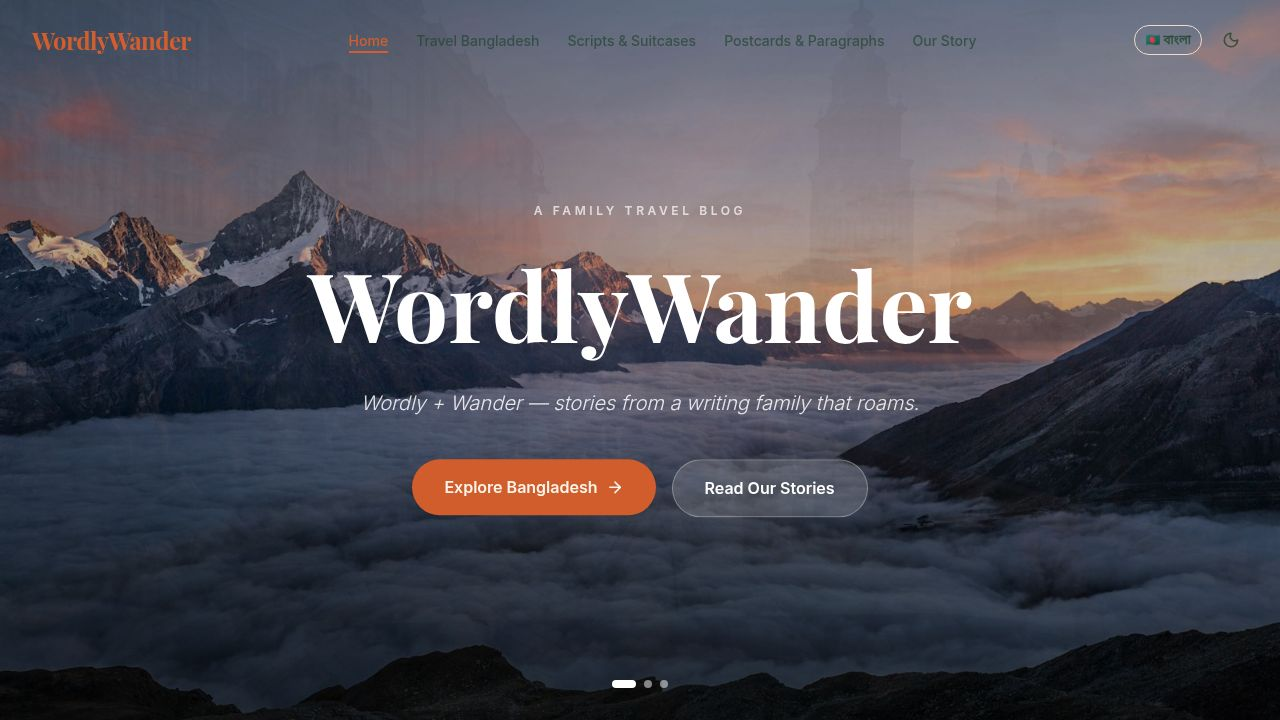
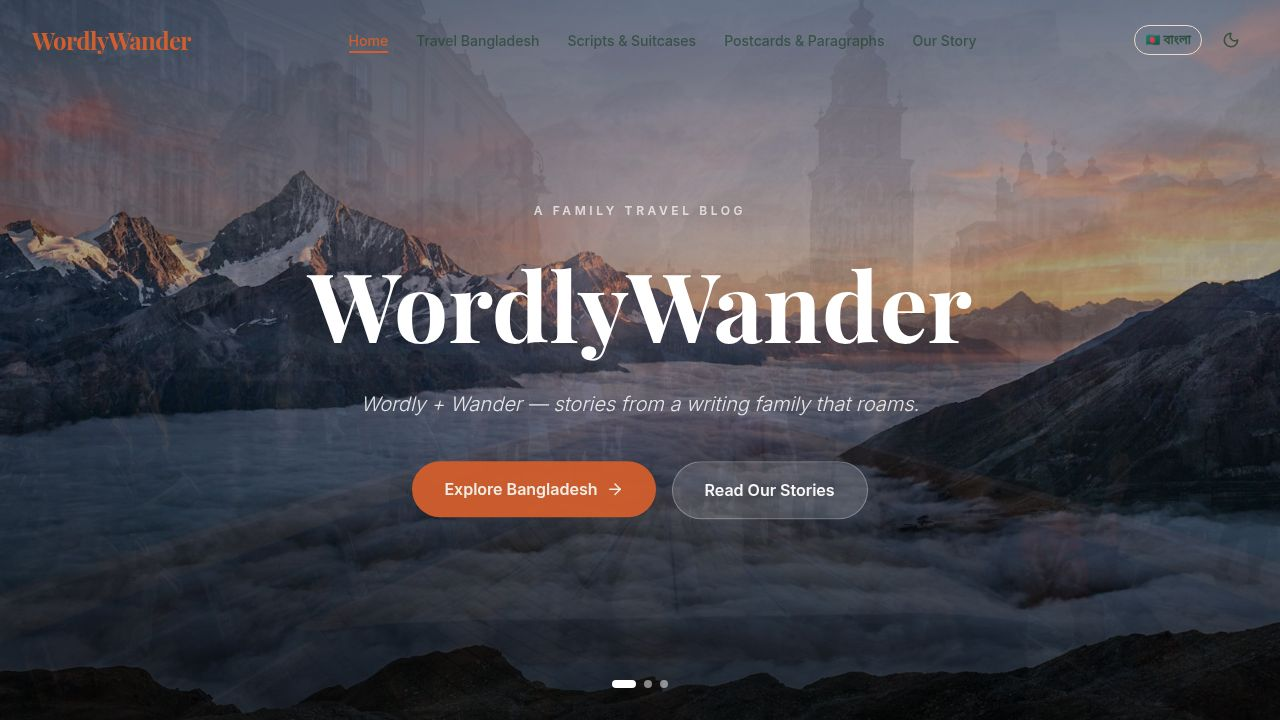
Migrate WordlyWander travel blog from Vercel to Replit pnpm workspace
Original task: Port the imported Vercel project (WordlyWander family travel blog)
into the Replit pnpm_workspace stack as a react-vite artifact.

## What was done

### Frontend (artifacts/worldly-wander/)
- Created react-vite artifact with slug "worldly-wander" at previewPath "/"
- Copied all source files from .migration-backup/artifacts/worldly-wander/src/
  including: pages (Home, Bangladesh, Destination, Blog, BlogPost, Photos, About,
  admin/*), components (Navbar, Footer, BackToTop, StarRating, all shadcn UI),
  contexts (ThemeContext, LanguageContext, AdminAuthContext), hooks, lib/api.ts,
  data/ (destinations.json, posts.json, photos.json)
- Updated index.html with Playfair Display + Inter Google Fonts
- Updated package.json with all required dependencies
- Fixed vite.config.ts to use sensible defaults for PORT/BASE_PATH instead of
  throwing — the workflow doesn't inject these env vars on dev startup
- Applied proper terracotta/forest green/cream theme colors in index.css

### Backend (artifacts/api-server/)
- Added cookie-parser middleware to app.ts
- Created lib/jwt.ts for JWT admin token signing/verifying (SESSION_SECRET)
- Created middlewares/auth.ts with requireAdmin guard
- Created routes: posts.ts, destinations.ts, gallery.ts, newsletter.ts
- Created admin routes: admin/auth.ts, admin/posts.ts, admin/destinations.ts,
  admin/gallery.ts
- Updated routes/index.ts to wire all routes under /api

### Database (lib/db/)
[…]

diff --git a/artifacts/worldly-wander/vite.config.ts b/artifacts/worldly-wander/vite.config.ts
@@ -5,26 +5,13 @@ import path from "path";
 import runtimeErrorOverlay from "@replit/vite-plugin-runtime-error-modal";
 
 const rawPort = process.env.PORT;
-
-if (!rawPort) {
-  throw new Error(
-    "PORT environment variable is required but was not provided.",
-  );
-}
-
-const port = Number(rawPort);
+const port = rawPort ? Number(rawPort) : 22076;
 
 if (Number.isNaN(port) || port <= 0) {
   throw new Error(`Invalid PORT value: "${rawPort}"`);
 }
 
-const basePath = process.env.BASE_PATH;
-
-if (!basePath) {
-  throw new Error(
-    "BASE_PATH environment variable is required but was not provided.",
-  );
-}
+const basePath = process.env.BASE_PATH ?? "/";
 
 export default defineConfig({
   base: basePath,